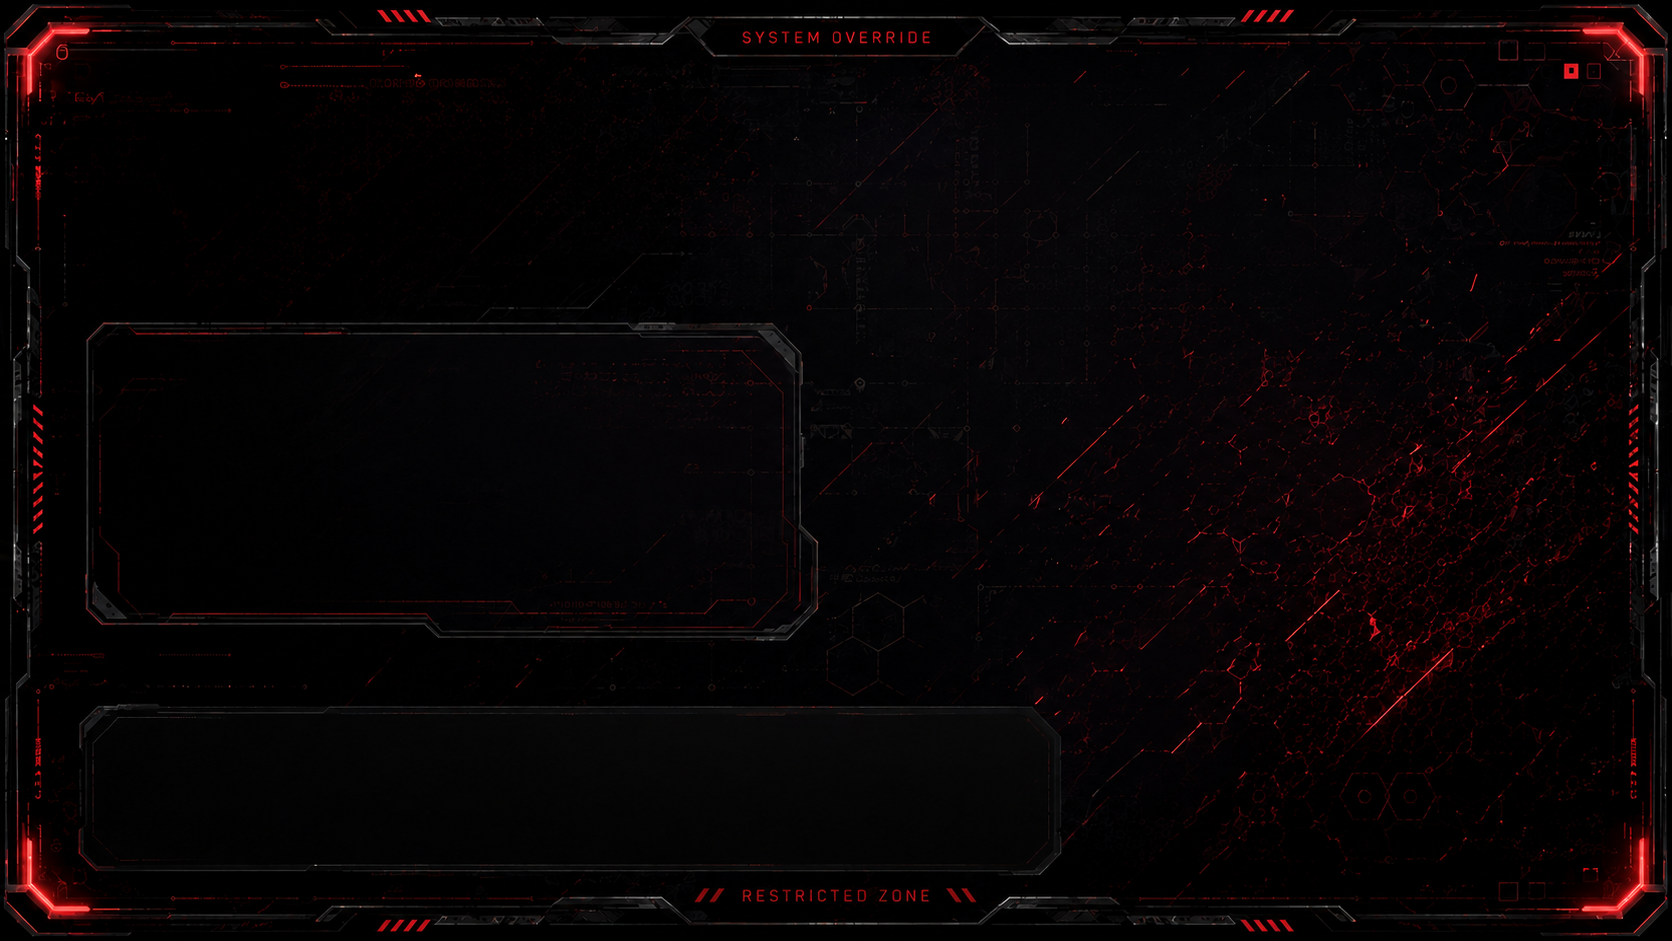
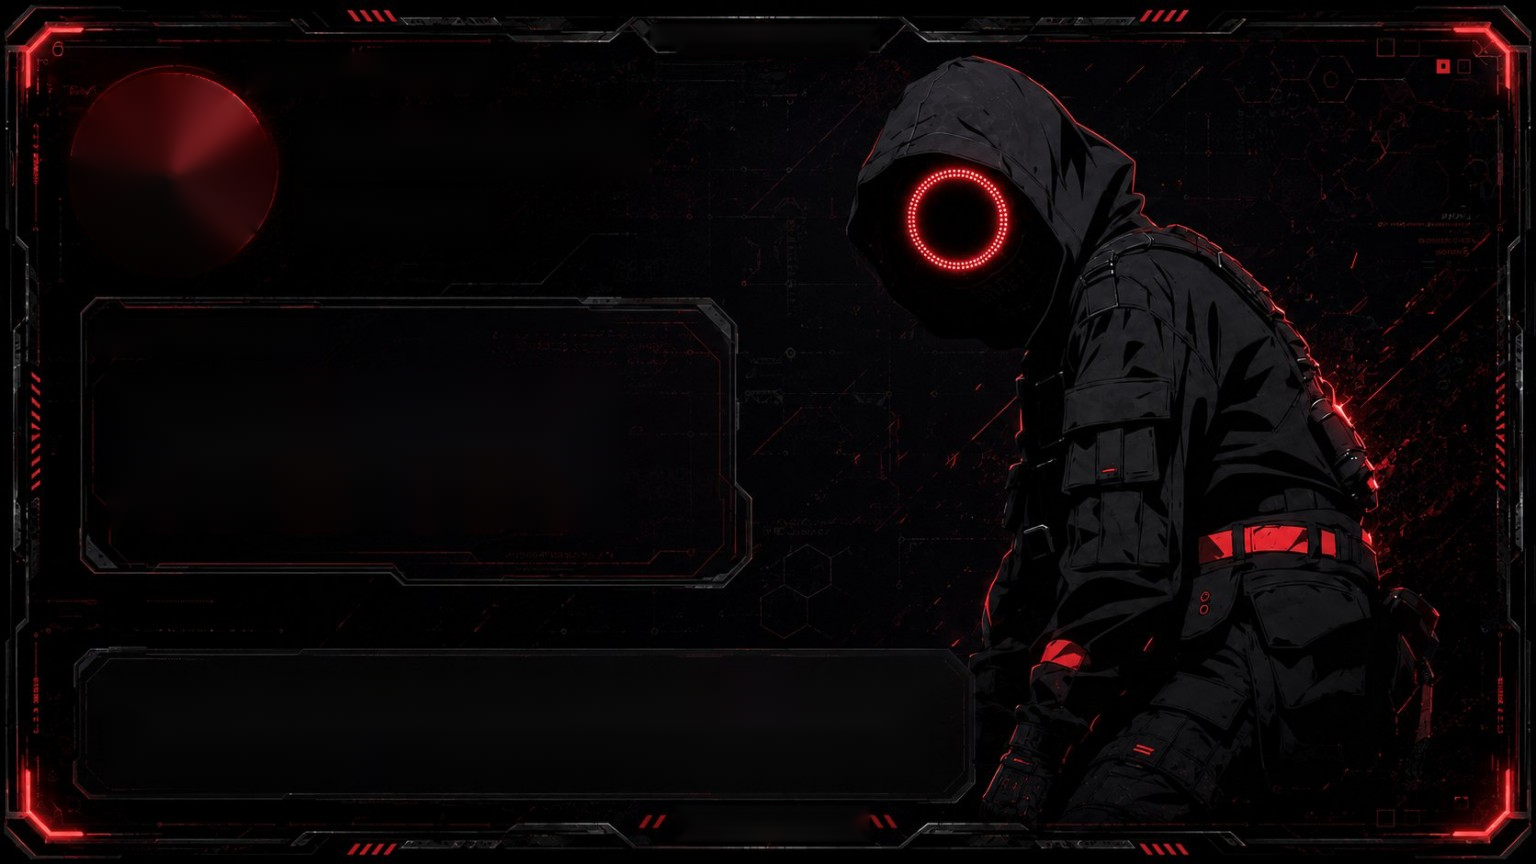
hy

diff --git a/pnl_card.py b/pnl_card.py
@@ -1,7 +1,7 @@
 """
 pnl_card.py
 -----------
-PNL card renderer for the "SYSTEM OVERRIDE" WaveScan layout (1672x941).
+PNL card renderer for the "SYSTEM OVERRIDE" WaveScan layout (1536x864).
 
 Put the new blank template image at:
     assets/pnl_card_template.png
@@ -57,40 +57,40 @@ ACCENT = (239, 68, 68, 255)
 # Layout of the new 1672 x 941 "SYSTEM OVERRIDE" template.
 # Measured directly off the supplied template/example images. The two
 # content boxes on the template live at roughly:
-#   top box:    x 88-805,  y 320-613   (multiplier panel)
-#   bottom box: x 88-1005, y 686-858   (called-at / reached / called-by)
+#   top box:    x 80-740,  y 295-575   (multiplier panel)
+#   bottom box: x 80-975, y 650-790   (called-at / reached / called-by)
 # Everything below is kept safely inside those bounds so nothing spills
 # onto the border art or the character artwork on the right.
 # ---------------------------------------------------------------------------
 
 # Header (logo + name sit above the top box, same as the reference image)
-LOGO_BOX = (80, 78, 280, 278)  # 200px circle
+LOGO_BOX = (70, 72, 272, 274)  # 200px circle
 
-NAME_X = 322
-NAME_Y = 118
-NAME_MAX_WIDTH = 460
+NAME_X = 300
+NAME_Y = 112
+NAME_MAX_WIDTH = 430
 
-SYMBOL_X = 322
-SYMBOL_Y = 205
-SYMBOL_MAX_WIDTH = 460
+SYMBOL_X = 300
+SYMBOL_Y = 190
+SYMBOL_MAX_WIDTH = 430
 
 # "CURRENT MULTIPLIER" label + big value, inside the top box
-MULT_LABEL_BAR = (100, 351, 106, 369)  # small accent bar before the label
-MULT_LABEL_X = 116
-MULT_LABEL_Y = 351
+MULT_LABEL_BAR = (95, 322, 101, 339)  # small accent bar before the label
+MULT_LABEL_X = 110
+MULT_LABEL_Y = 322
 
-MULT_VALUE_X = 100
-MULT_VALUE_Y = 390
-MULT_MAX_WIDTH = 675  # keeps the value inside the top box (right edge ~805)
+MULT_VALUE_X = 95
+MULT_VALUE_Y = 360
+MULT_MAX_WIDTH = 620  # keeps the value inside the top box (right edge ~805)
 
 # Bottom metrics row, inside the bottom box
-CALLED_X = 120
-REACHED_X = 465
-CALLED_BY_X = 785
-CALLED_BY_MAX_WIDTH = 200  # keeps the handle inside the bottom box (~1005)
+CALLED_X = 110
+REACHED_X = 425
+CALLED_BY_X = 720
+CALLED_BY_MAX_WIDTH = 185  # keeps the handle inside the bottom box (~1005)
 
-LABEL_Y = 700
-VALUE_Y = 743
+LABEL_Y = 675
+VALUE_Y = 720
 
 # ---------------------------------------------------------------------------
 
@@ -198,7 +198,7 @@ def _draw_logo(draw, overlay, call):
 
 def _draw_glow_text(overlay, xy, text, font, color, blur_radius=12, pad=40):
     """Draw `text` with a soft color glow behind it, without blurring the
-    whole canvas. Older code ran GaussianBlur over the full 1672x941
+    whole canvas. Older code ran GaussianBlur over the full 1536x864
     overlay just to glow a few hundred pixels of text — this crops a
     small patch around the text, blurs only that, then pastes it back.
     That's the single biggest chunk of render time this function had."""
@@ -239,9 +239,9 @@ def generate_pnl_card(call: dict) -> str:
 
     base = Image.open(TEMPLATE_PATH).convert("RGBA")
 
-    if base.size != (1672, 941):
+    if base.size != (1536, 864):
         logger.warning(
-            "pnl_card_template.png is %s; this layout was designed for 1672x941.",
+            "pnl_card_template.png is %s; this layout was designed for 1536x864.",
             base.size,
         )
 
@@ -320,7 +320,7 @@ def generate_pnl_card(call: dict) -> str:
     fd, output_path = tempfile.mkstemp(prefix="pnl_card_", suffix=".png", dir=tempfile.gettempdir())
     os.close(fd)
 
-    # `optimize=True` on a full 1672x941 PNG is the other big chunk of the
+    # `optimize=True` on a full 1536x864 PNG is the other big chunk of the
     # old 10s: PIL's PNG optimizer re-tries multiple filter/compression
     # strategies to squeeze out extra bytes, which is slow and buys almost
     # nothing here since Telegram re-compresses the photo anyway. Dropping
